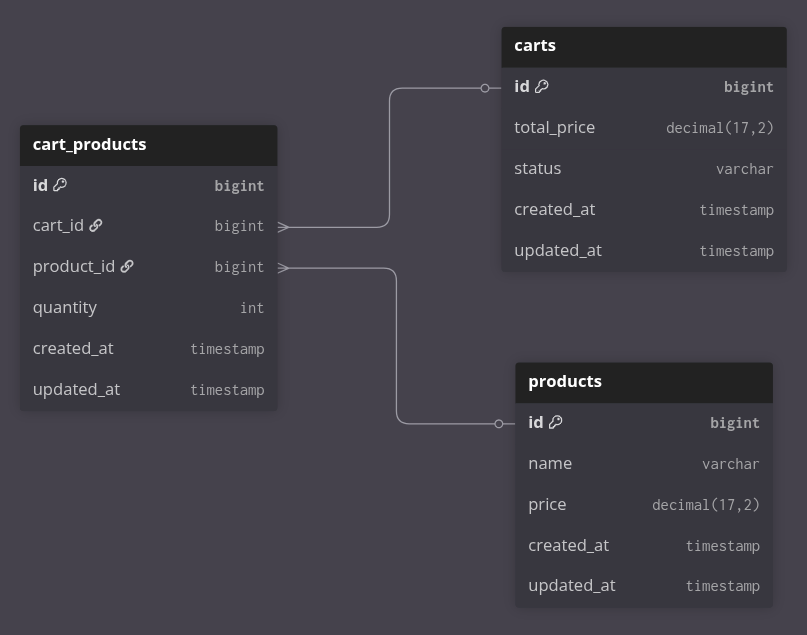
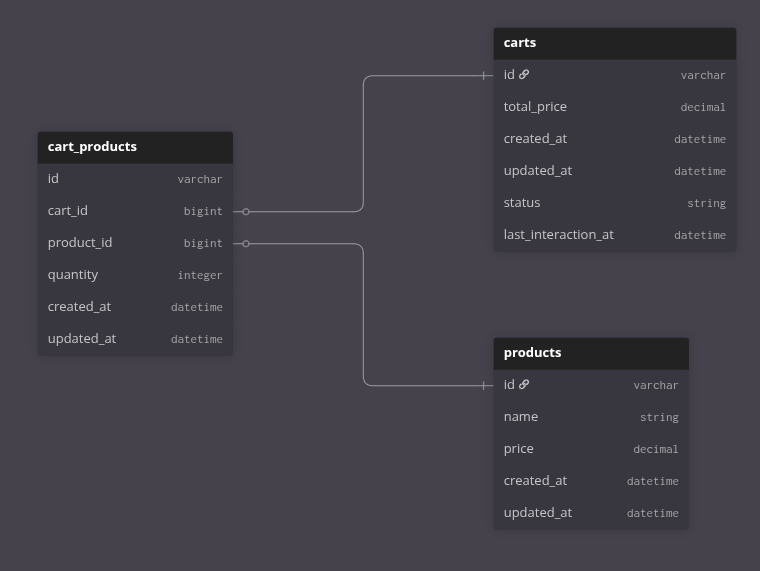
Refact cart model and tests (#12)
* feat: Enhance cart functionality with inactivity tracking and abandonment logic

* feat: Add last_interaction_at column to carts for tracking user activity

* feat: Add scopes for inactive and expired carts based on last interaction timestamp

* docs: Update models documentation to include last_interaction_at field

diff --git a/spec/models/cart_spec.rb b/spec/models/cart_spec.rb
@@ -16,20 +16,20 @@ RSpec.describe Cart, type: :model do
       expect(cart.open?).to be(true)
     end
 
-    describe 'event: :abandon' do
+    describe 'event: :mark_as_abandoned' do
       context 'when the cart is inactive (updated more than 3 hours ago)' do
-        let(:inactive_cart) { create(:cart, status: 'open', updated_at: 4.hours.ago) }
+        let(:inactive_cart) { create(:cart, status: 'open', last_interaction_at: 4.hours.ago) }
 
         it 'transitions from :open to :abandoned' do
-          expect { inactive_cart.abandon! }.to change(inactive_cart, :status).from('open').to('abandoned')
+          expect { inactive_cart.mark_as_abandoned! }.to change(inactive_cart, :status).from('open').to('abandoned')
         end
       end
 
       context 'when the cart is active (updated recently)' do
-        let(:active_cart) { create(:cart, status: 'open', updated_at: 1.hour.ago) }
+        let(:active_cart) { create(:cart, status: 'open', last_interaction_at: 1.hour.ago) }
 
         it 'does not transition and raises an error' do
-          expect { active_cart.abandon! }.to raise_error(AASM::InvalidTransition)
+          expect { active_cart.mark_as_abandoned! }.to raise_error(AASM::InvalidTransition)
         end
       end
     end
@@ -80,17 +80,6 @@ RSpec.describe Cart, type: :model do
       end
     end
 
-    describe '#update_total_price' do
-      let(:product) { create(:product, price: 100.0) }
-      before { create(:cart_product, cart: cart, product: product, quantity: 2) }
-
-      it 'updates the total_price column in the database' do
-        expect {
-          cart.update_total_price
-        }.to change { cart.reload.read_attribute(:total_price) }.from(0.0).to(200.0)
-      end
-    end
-
     describe '#inactive?' do
       context 'when updated more than 3 hours ago' do
         it 'returns true' do
@@ -107,6 +96,32 @@ RSpec.describe Cart, type: :model do
           expect(cart.inactive?).to be(false)
         end
       end
+    end
+  end
+  # default tests provided
+  context 'when validating' do
+    it 'validates numericality of total_price' do
+      cart = described_class.new(total_price: -1)
+      expect(cart.valid?).to be_falsey
+      expect(cart.errors[:total_price]).to include("must be greater than or equal to 0")
+    end
+  end
+
+  describe 'mark_as_abandoned' do
+    let(:shopping_cart) { create(:cart) }
+
+    it 'marks the shopping cart as abandoned if inactive for a certain time' do
+      shopping_cart.update(last_interaction_at: 3.hours.ago)
+      expect { shopping_cart.mark_as_abandoned }.to change { shopping_cart.abandoned? }.from(false).to(true)
+    end
+  end
+
+  describe 'remove_if_abandoned' do
+    let(:shopping_cart) { create(:cart, last_interaction_at: 7.days.ago) }
+
+    it 'removes the shopping cart if abandoned for a certain time' do
+      shopping_cart.mark_as_abandoned
+      expect { shopping_cart.remove_if_abandoned }.to change { Cart.count }.by(-1)
     end
   end
 end

diff --git a/app/models/cart.rb b/app/models/cart.rb
@@ -1,6 +1,9 @@
 class Cart < ApplicationRecord
   include AASM
 
+  INACTIVITY_THRESHOLD = 3.hours
+  EXPIRED_THRESHOLD = 7.days
+
   validates_numericality_of :total_price, greater_than_or_equal_to: 0
 
   has_many :cart_products
@@ -12,7 +15,7 @@ class Cart < ApplicationRecord
     state :completed
     state :expired
 
-    event :abandon, guard: :inactive? do
+    event :mark_as_abandoned, guard: :inactive? do
       transitions from: :open, to: :abandoned
     end
 
@@ -29,11 +32,14 @@ class Cart < ApplicationRecord
     end
   end
 
+  scope :in_inactive_threshold, -> { where('last_interaction_at < ?', INACTIVITY_THRESHOLD.ago) }
+  scope :in_expired_threshold, -> { where('last_interaction_at < ?', EXPIRED_THRESHOLD.ago) }
+
   def update_total_price
-    update!(total_price: total_price)
+    update!(total_price: calculate_total_price)
   end
 
-  def total_price
+  def calculate_total_price
     return 0 if cart_products.blank?
 
     cart_products.includes(:product).sum do |cart_product|
@@ -41,7 +47,22 @@ class Cart < ApplicationRecord
     end
   end
 
+  def update_last_interaction
+    update!(last_interaction_at: Time.current)
+  end
+
+  def remove_if_abandoned
+    return unless abandoned_cart?
+
+    cart_products.destroy_all
+    self.destroy!
+  end
+
   def inactive?
-    updated_at < 3.hour.ago
+    last_interaction_at < INACTIVITY_THRESHOLD.ago
+  end
+
+  def abandoned_cart?
+    last_interaction_at < EXPIRED_THRESHOLD.ago
   end
 end

diff --git a/app/services/cart_service.rb b/app/services/cart_service.rb
@@ -6,11 +6,10 @@ class CartService
   end
 
   def add_product
-    raise ActiveRecord::RecordNotFound, "Product with ID=#{product_id} not found" if product.blank?
-    raise ArgumentError, 'Quantity must be greater than zero' if quantity < 1
-    raise StandardError, 'Cannot add products to a completed or expired cart' if cart.completed? || cart.expired?
+    validate!
 
     create_cart_product
+    cart.update_last_interaction
     cart.mark_as_open! if cart.abandoned?
 
     cart.reload
@@ -20,6 +19,7 @@ class CartService
     raise ActiveRecord::RecordNotFound, "Product with ID=#{product_id} not found" if product.blank?
 
     remove_product_from_cart
+    cart.update_last_interaction
     cart.mark_as_open! if cart.abandoned?
 
     cart.reload
@@ -28,6 +28,12 @@ class CartService
   private
 
   attr_reader :cart, :product_id, :quantity
+
+  def validate!
+    raise ActiveRecord::RecordNotFound, "Product with ID=#{product_id} not found" if product.blank?
+    raise ArgumentError, 'Quantity must be greater than zero' if quantity < 1
+    raise StandardError, 'Cannot add products to a completed or expired cart' if cart.completed? || cart.expired?
+  end
 
   def create_cart_product
     return CartProduct.create!(cart:, product:, quantity:) if cart_product.blank?

diff --git a/db/schema.rb b/db/schema.rb
@@ -10,7 +10,7 @@
 #
 # It's strongly recommended that you check this file into your version control system.
 
-ActiveRecord::Schema[7.1].define(version: 2025_09_02_035252) do
+ActiveRecord::Schema[7.1].define(version: 2025_11_01_012818) do
   # These are extensions that must be enabled in order to support this database
   enable_extension "plpgsql"
 
@@ -29,6 +29,7 @@ ActiveRecord::Schema[7.1].define(version: 2025_09_02_035252) do
     t.datetime "created_at", null: false
     t.datetime "updated_at", null: false
     t.string "status"
+    t.datetime "last_interaction_at"
   end
 
   create_table "products", force: :cascade do |t|

diff --git a/spec/factories/carts.rb b/spec/factories/carts.rb
@@ -2,6 +2,7 @@ FactoryBot.define do
   factory :cart do
     total_price { 0.0 }
     status { :open }
+    last_interaction_at { Time.current }
 
     trait :abandoned do
       status { :abandoned }

diff --git a/db/migrate/20251101012818_add_last_interaction_at_to_cart.rb b/db/migrate/20251101012818_add_last_interaction_at_to_cart.rb
@@ -1,0 +1,5 @@
+class AddLastInteractionAtToCart < ActiveRecord::Migration[7.1]
+  def change
+    add_column :carts, :last_interaction_at, :datetime
+  end
+end

diff --git a/docs/models.md b/docs/models.md
@@ -10,6 +10,7 @@ Representa cada carrinho criado por um usuário/sessão.
 - `id`: identificador único do carrinho  
 - `total_price`: valor total dos produtos no carrinho  
 - `status`: estado do carrinho (ex.: aberto, abandonado, finalizado)  
+- `last_interaction_at` data da última interação como carrinho
 - `created_at` / `updated_at`: controle de criação e atualização  
 
 ---
